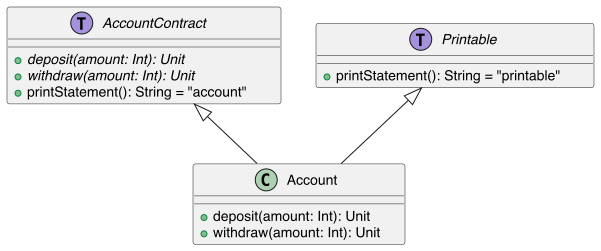
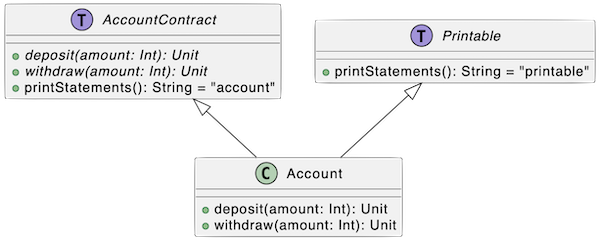
:sparkles: change exercice

diff --git a/scala/slides.html b/scala/slides.html
@@ -982,7 +982,7 @@ object ChristmasLights:
 						<pre><code class="language-scala">  def countLitLights(program: String): Int =
     val lights = applyToRectangle(Coordinates(0, 0), Coordinates(999, 999),
                                   (_, _) => false).toBuffer
-    program.lines().toScala(Vector).map(Instruction.apply).foreach:
+    program.split(lineSeparator()).map(Instruction.apply).foreach:
       case ON(c1, c2)     => applyToRectangle(c1, c2,
         (x, y) => lights.update(y * 1000 + x, true))
       case OFF(c1, c2)    => applyToRectangle(c1, c2,
@@ -1009,7 +1009,7 @@ object ChristmasLights:
 						<pre class="fragment"><code class="language-scala">trait AccountContract:
   def deposit(amount: Int): Unit
   def withdraw(amount: Int): Unit
-  def printStatement(): String</code></pre>
+  def printStatements(): String</code></pre>
 					</section>
 
 					<section>
@@ -1041,7 +1041,7 @@ object ChristmasLights:
     balance -= amount
     val now = clock.instant().atZone(UTC).toLocalDate
     transactions.append(Transaction(now, -amount, balance))
-  override def printStatement(): String = transactions
+  override def printStatements(): String = transactions
     .map(_.toString)
     .mkString("Date       Amount Balance\n", "\n", "")</code></pre>
 					</section>
@@ -1057,17 +1057,17 @@ object ChristmasLights:
 abstract class AccountContract << (T,#A492DE) >> {
   {method} {abstract} +deposit(amount: Int): Unit
   {method} {abstract} +withdraw(amount: Int): Unit
-  {method} {abstract} +printStatement(): String
+  {method} {abstract} +printStatements(): String
 }
 
 abstract class Printable << (T,#A492DE) >> {
-  {method} {abstract} +printStatement(): String
+  {method} {abstract} +printStatements(): String
 }
 
 class Account {
   {method} +deposit(amount: Int): Unit
   {method} +withdraw(amount: Int): Unit
-  {method} +printStatement(): String
+  {method} +printStatements(): String
 }
 
 AccountContract <|-- Account
@@ -1087,11 +1087,11 @@ Printable <|-- Account
 abstract class AccountContract << (T,#A492DE) >> {
   {method} {abstract} +deposit(amount: Int): Unit
   {method} {abstract} +withdraw(amount: Int): Unit
-  {method} +printStatement(): String = "account"
+  {method} +printStatements(): String = "account"
 }
 
 abstract class Printable << (T,#A492DE) >> {
-  {method} +printStatement(): String = "printable"
+  {method} +printStatements(): String = "printable"
 }
 
 class Account {
@@ -1270,9 +1270,9 @@ val deposit =
 						<ul>
 							<li><code>deposit(Int): Unit</code></li>
 							<li><code>withdraw(Int): Unit</code></li>
-							<li><code>printStatement(): String</code></li>
+							<li><code>printStatements(): String</code></li>
 						</ul>
-						<p>Voici un exemple de statement :</p>
+						<p>Voici un exemple de statements :</p>
 						<pre>Date        Amount  Balance
 24.12.2015   +500      500
 23.8.2016    -100      400</pre>
@@ -1301,7 +1301,7 @@ class Account(private val clock: Clock):
     val now = clock.instant().atZone(UTC).toLocalDate
     transactions.append(Transaction(now, -amount, balance))
 
-  def printStatement(): String = transactions
+  def printStatements(): String = transactions
     .map(_.toString)
     .mkString("Date       Amount Balance\n", "\n", "")</code></pre>
 					</section>
@@ -1322,75 +1322,6 @@ object Account:
     override def toString: String =
       val formattedDate = date.format(dateFormatter)
       "%-10s %+5d %7d".format(formattedDate, amount, balance)</code></pre>
-					</section>
-
-					<section data-background="#336699" data-background-gradient="radial-gradient(#336699, #003366)">
-						<h3>Contrôle continu</h3>
-						<p>Écrire une version de <code>Account</code><br>en programmation fonctionnelle pure</p>
-						<p>
-							L’interface est libre : à vous de choisir ce qui correspond le mieux au design fonctionnel
-						</p>
-						<pre>Date        Amount  Balance
-24.12.2015   +500      500
-23.8.2016    -100      400</pre>
-					</section>
-
-					<section data-background="#339966" data-background-gradient="radial-gradient(#339966, #003333)">
-						<h3>Corrigé : test unitaire</h3>
-						<pre><code class="language-scala" data-line-numbers="5-11|12|13-15">import munit.FunSuite
-import java.time.LocalDate
-class AccountSuite extends FunSuite:
-  test("should use account"):
-    val account = Account.withdraw(
-      Account.deposit(
-        Account.empty,
-        LocalDate.parse("2015-12-24"),
-        500),
-      LocalDate.parse("2016-08-23"),
-      100)
-    assertEquals(Account.printStatement(account),
-      """Date       Amount Balance
-        |24.12.2015  +500     500
-        |23.8.2016   -100     400""".stripMargin)</code></pre>
-					</section>
-
-					<section data-background="#339966" data-background-gradient="radial-gradient(#339966, #003333)">
-						<h3>Corrigé : fonctions sur Account</h3>
-						<pre><code class="language-scala" data-line-numbers="3|5|7|7-15">import java.time.LocalDate
-
-case class Account(private val transactions: Seq[Transaction])
-
-case class Transaction(date: LocalDate, amount: Int)
-
-object Account:
-  def empty: Account = Account(Seq.empty)
-  def deposit(account: Account, date: LocalDate,
-              amount: Int): Account =
-    Account(account.transactions :+ Transaction(date, amount))
-  def withdraw(account: Account, date: LocalDate,
-               amount: Int): Account =
-    Account(account.transactions :+ Transaction(date, -amount))
-  def printStatement(account: Account): String = ???</code></pre>
-					</section>
-
-					<section data-background="#339966" data-background-gradient="radial-gradient(#339966, #003333)">
-						<h3>Corrigé : affichage du statement</h3>
-						<pre><code class="language-scala" data-line-numbers="2-4|5-11|13-16">object Account:
-  def printStatement(account: Account): String =
-    "Date       Amount Balance" +
-      printStatement(account.transactions, 0)
-  private def printStatement(transactions: Seq[TransactionFP],
-                             balance: Int): String =
-    transactions match
-      case Nil => ""
-      case TransactionFP(date, amount) :: tail =>
-        "\n" + printTransaction(date, amount, balance + amount)
-             + printStatement(tail, balance + amount)
-  private val dateFormatter = DateTimeFormatter.ofPattern("d.M.y")
-  private def printTransaction(date: LocalDate, amount: Int,
-                               balance: Int): String =
-    "%-10s %+5d %7d".format(date.format(dateFormatter), amount,
-                            balance)</code></pre>
 					</section>
 
 				</section>
@@ -1474,7 +1405,7 @@ def help(id: Username | Password) =
     case Password(hash) => lookupPassword(hash)
   // ...</code></pre>
 						<p class="fragment">
-							Ici pas besoin de créer un trait scelé ou une enumeration <em>en avance</em>.
+							Ici pas besoin de créer un trait scellé ou une enumeration <em>en avance</em>.
 						</p>
 					</section>
 
@@ -1558,6 +1489,20 @@ import munit.FunSuite</code></pre>
     def empty: Report =
                   Report(ok = List.empty, ko = List.empty)</code></pre>
 					</section>
+				</section>
+
+				<section data-background="#336699" data-background-gradient="radial-gradient(#336699, #003366)" aria-description="Contrôle continu">
+					<h3>Contrôle continu</h3>
+					<p>
+						À partir d’une ressource qui vous sera communiquée par mail, préparer une soutenance d’une
+						dizaine de minutes maximum qui explique et qui reproduit le problème rencontré ainsi que la ou
+						les solutions qui paraissent satisfaisantes.
+					</p>
+					<p>Vous pouvez vous appuyer sur des slides, du code ou un live-coding.</p>
+					<p>
+						L’idée est de prouver que vous avez compris le problème et que vous avez suffisamment creusé la
+						solution pour répondre à une ou deux questions.
+					</p>
 				</section>
 
 				<section aria-description="4. Gestion des effets en programmation fonctionnelle">
